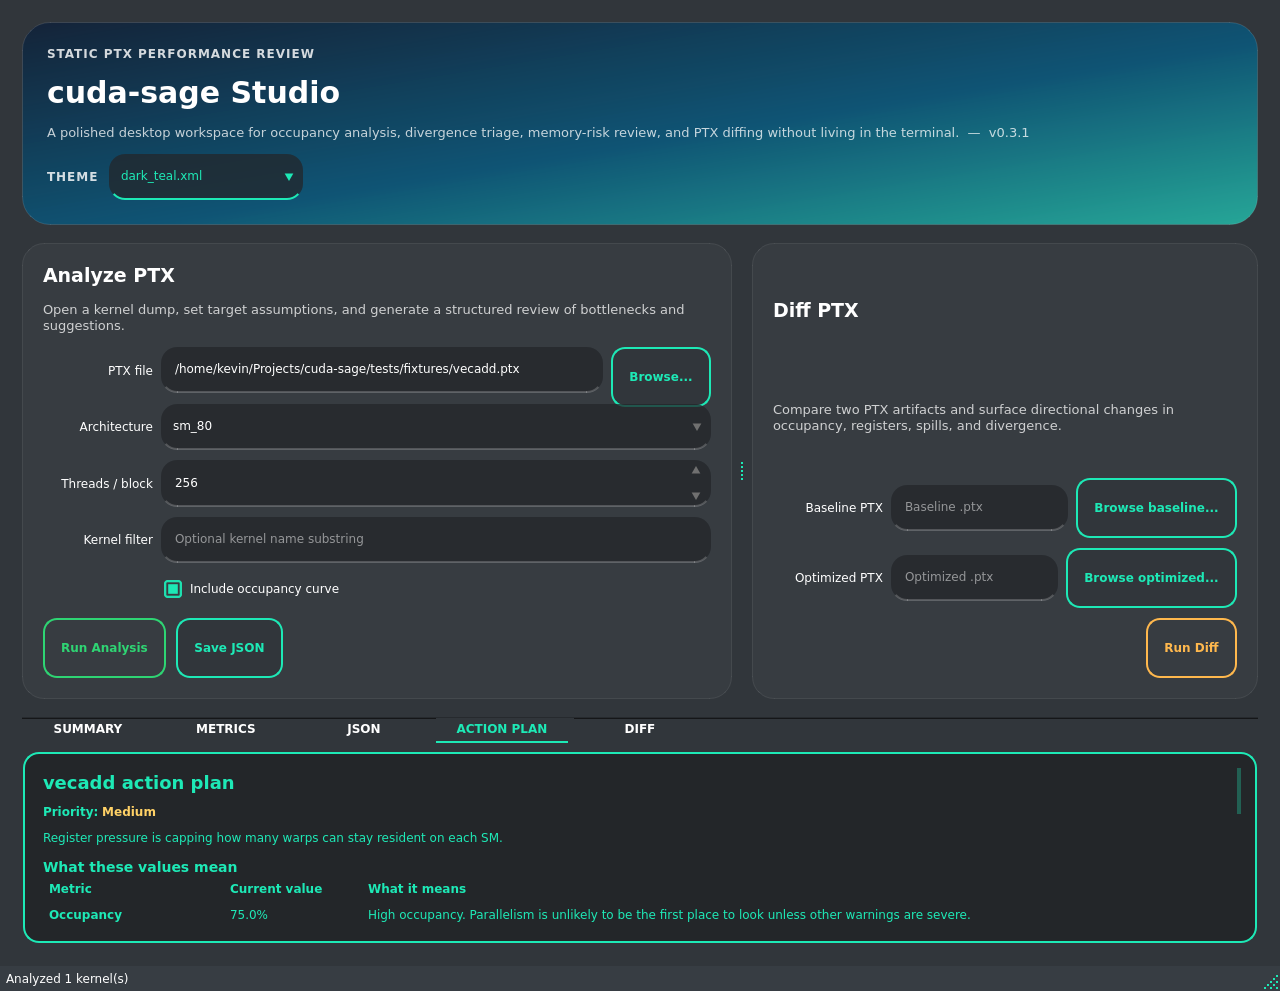
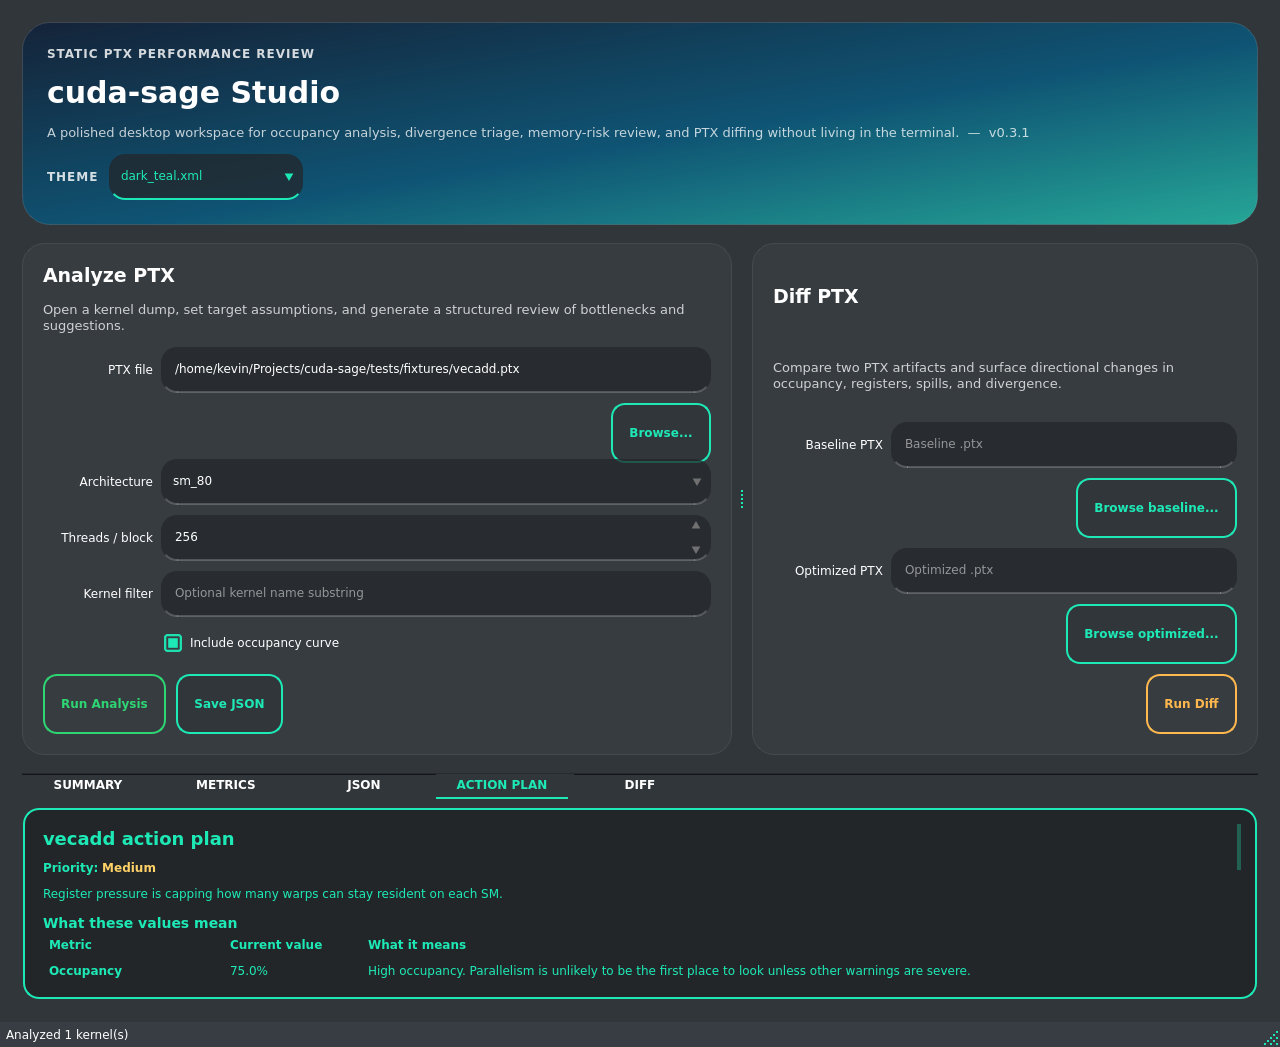
fix: separate browse controls from form fields

diff --git a/src/cudasage/gui.py b/src/cudasage/gui.py
@@ -779,13 +779,18 @@ def main() -> None:
                     row.addWidget(w, 1 if i == stretch_idx else 0)
                 return row
 
-            # PTX file: [label] [path field, stretch=1] [Browse btn]
             self.arch_combo.setSizePolicy(QSizePolicy.Policy.Expanding, QSizePolicy.Policy.Fixed)
             self.threads_spin.setSizePolicy(QSizePolicy.Policy.Expanding, QSizePolicy.Policy.Fixed)
             self.kernel_filter.setSizePolicy(QSizePolicy.Policy.Expanding, QSizePolicy.Policy.Fixed)
             self.ptx_path.setSizePolicy(QSizePolicy.Policy.Expanding, QSizePolicy.Policy.Fixed)
 
-            ptx_row = _hrow(_lbl("PTX file"), self.ptx_path, pick_ptx_btn, stretch_idx=1)
+            ptx_field_row = _hrow(_lbl("PTX file"), self.ptx_path, stretch_idx=1)
+            ptx_button_row = QHBoxLayout()
+            ptx_button_row.setSpacing(8)
+            ptx_button_row.setContentsMargins(0, 0, 0, 0)
+            ptx_button_row.addSpacing(_LW + 8)
+            ptx_button_row.addStretch(1)
+            ptx_button_row.addWidget(pick_ptx_btn)
             arch_row = _hrow(_lbl("Architecture"), self.arch_combo, stretch_idx=1)
             threads_row = _hrow(_lbl("Threads / block"), self.threads_spin, stretch_idx=1)
             filter_row = _hrow(_lbl("Kernel filter"), self.kernel_filter, stretch_idx=1)
@@ -800,7 +805,8 @@ def main() -> None:
             form_vbox = QVBoxLayout()
             form_vbox.setSpacing(10)
             form_vbox.setContentsMargins(0, 0, 0, 0)
-            form_vbox.addLayout(ptx_row)
+            form_vbox.addLayout(ptx_field_row)
+            form_vbox.addLayout(ptx_button_row)
             form_vbox.addLayout(arch_row)
             form_vbox.addLayout(threads_row)
             form_vbox.addLayout(filter_row)
@@ -853,8 +859,21 @@ def main() -> None:
             self.base_path.setSizePolicy(QSizePolicy.Policy.Expanding, QSizePolicy.Policy.Fixed)
             self.opt_path.setSizePolicy(QSizePolicy.Policy.Expanding, QSizePolicy.Policy.Fixed)
 
-            base_file_row = _hrow(_lbl("Baseline PTX"), self.base_path, base_btn, stretch_idx=1)
-            opt_file_row = _hrow(_lbl("Optimized PTX"), self.opt_path, opt_btn, stretch_idx=1)
+            base_file_row = _hrow(_lbl("Baseline PTX"), self.base_path, stretch_idx=1)
+            base_button_row = QHBoxLayout()
+            base_button_row.setSpacing(8)
+            base_button_row.setContentsMargins(0, 0, 0, 0)
+            base_button_row.addSpacing(_LW + 8)
+            base_button_row.addStretch(1)
+            base_button_row.addWidget(base_btn)
+
+            opt_file_row = _hrow(_lbl("Optimized PTX"), self.opt_path, stretch_idx=1)
+            opt_button_row = QHBoxLayout()
+            opt_button_row.setSpacing(8)
+            opt_button_row.setContentsMargins(0, 0, 0, 0)
+            opt_button_row.addSpacing(_LW + 8)
+            opt_button_row.addStretch(1)
+            opt_button_row.addWidget(opt_btn)
 
             run_diff_row = QHBoxLayout()
             run_diff_row.addStretch(1)
@@ -864,7 +883,9 @@ def main() -> None:
             diff_vbox.setSpacing(10)
             diff_vbox.setContentsMargins(0, 0, 0, 0)
             diff_vbox.addLayout(base_file_row)
+            diff_vbox.addLayout(base_button_row)
             diff_vbox.addLayout(opt_file_row)
+            diff_vbox.addLayout(opt_button_row)
             diff_vbox.addLayout(run_diff_row)
 
             diff_layout_root.addLayout(diff_vbox)
